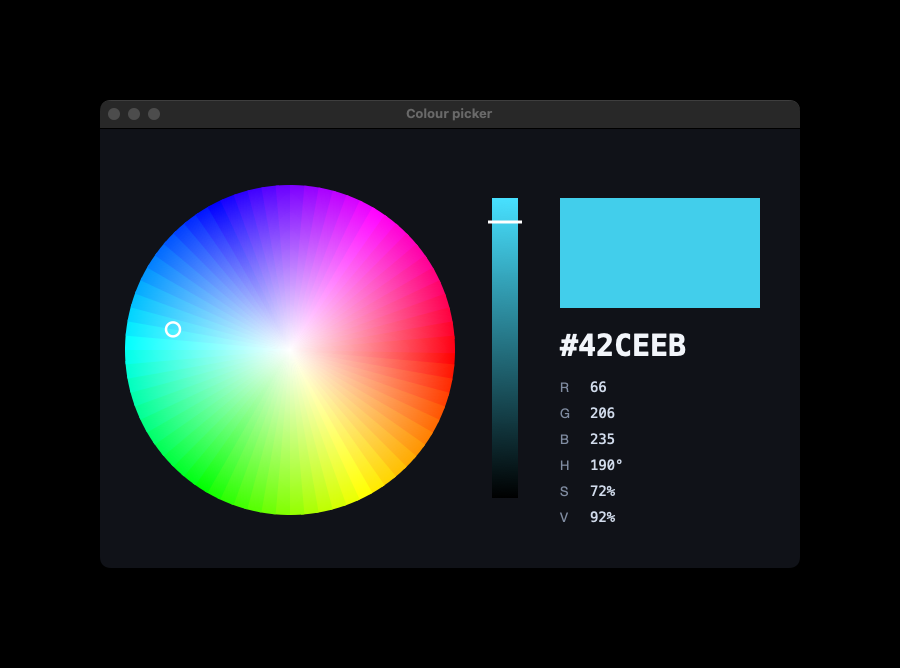
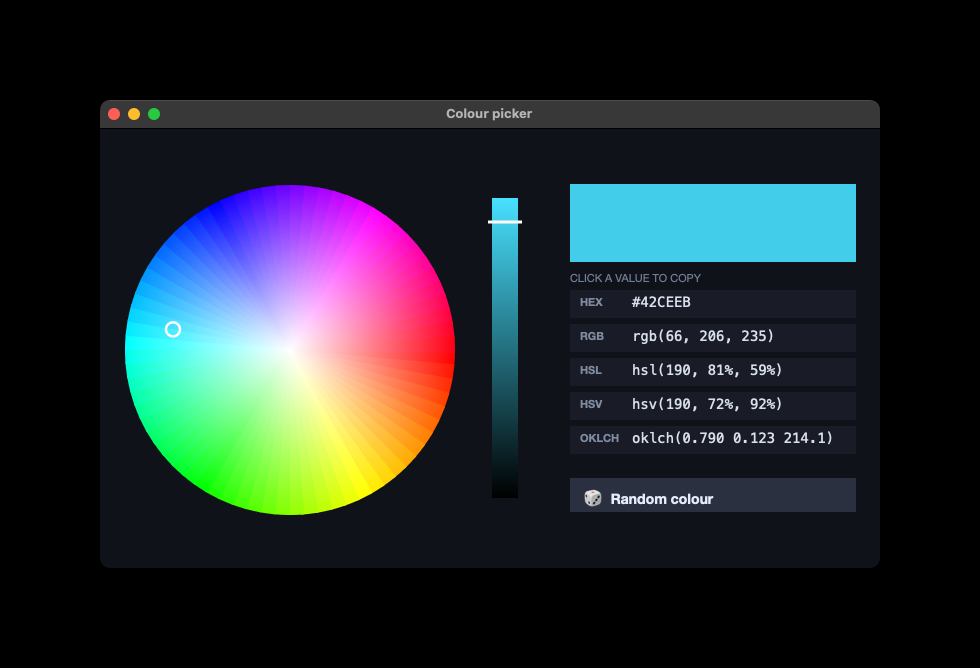
colorpicker: click-to-copy in 5 formats (hex/rgb/hsl/hsv/oklch) + random button
- five clickable format rows copy the colour to the clipboard with a 'Copied'
  flash; clipboard shells out to pbcopy/xclip/clip (libui has no clipboard API)
- HSL and OKLCH conversions (sRGB->linear->OKLab->OKLCH)
- a Random colour button; readout panel replaces the old R/G/B/H/S/V mini-rows

Changed region(s): [[0.0933, 0.1497, 0.9022, 0.8383], [0.4356, 0.1497, 0.56, 0.1796]]

diff --git a/examples/colorpicker.php b/examples/colorpicker.php
@@ -8,7 +8,8 @@ declare(strict_types=1);
  * The hue wheel is a fan of filled arc wedges (Path::arcTo) under a radial
  * white→transparent overlay for the saturation falloff; a vertical value bar is
  * a linear gradient. Click/drag the wheel to pick hue+saturation, the bar to
- * pick value. The swatch, hex and RGB readouts update live.
+ * pick value. Click any of the format rows (HEX / RGB / HSL / HSV / OKLCH) to
+ * copy that representation to the clipboard, or hit "Random colour".
  *
  *   php examples/colorpicker.php
  */
@@ -54,13 +55,74 @@ function hsv(float $h, float $s, float $v): array
     return [$r + $m, $g + $m, $b + $m];
 }
 
+/** sRGB (0-1) -> HSL [h 0-360, s 0-1, l 0-1]. */
+function rgbToHsl(float $r, float $g, float $b): array
+{
+    $max = max($r, $g, $b);
+    $min = min($r, $g, $b);
+    $l = ($max + $min) / 2;
+    $d = $max - $min;
+    if ($d == 0.0) {
+        return [0.0, 0.0, $l];
+    }
+    $s = $d / (1 - abs((2 * $l) - 1));
+    $h =
+        match ($max) {
+            $r => fmod(($g - $b) / $d, 6.0),
+            $g => (($b - $r) / $d) + 2,
+            default => (($r - $g) / $d) + 4,
+        } * 60;
+    return [fmod($h + 360.0, 360.0), $s, $l];
+}
+
+/** sRGB (0-1) -> OKLCH [L 0-1, C, H 0-360]. */
+function rgbToOklch(float $r, float $g, float $b): array
+{
+    $lin = static fn (float $c): float => $c <= 0.04045 ? $c / 12.92 : (($c + 0.055) / 1.055) ** 2.4;
+    $lr = $lin($r);
+    $lg = $lin($g);
+    $lb = $lin($b);
+
+    $l = (0.4122214708 * $lr) + (0.5363325363 * $lg) + (0.0514459929 * $lb);
+    $m = (0.2119034982 * $lr) + (0.6806995451 * $lg) + (0.1073969566 * $lb);
+    $s = (0.0883024619 * $lr) + (0.2817188376 * $lg) + (0.6299787005 * $lb);
+    $l3 = $l ** (1 / 3);
+    $m3 = $m ** (1 / 3);
+    $s3 = $s ** (1 / 3);
+
+    $L = (0.2104542553 * $l3) + (0.7936177850 * $m3) - (0.0040720468 * $s3);
+    $a = (1.9779984951 * $l3) - (2.4285922050 * $m3) + (0.4505937099 * $s3);
+    $bb = (0.0259040371 * $l3) + (0.7827717662 * $m3) - (0.8086757660 * $s3);
+
+    $C = sqrt(($a * $a) + ($bb * $bb));
+    $H = fmod(rad2deg(atan2($bb, $a)) + 360.0, 360.0);
+    return [$L, $C, $H];
+}
+
+/** Put $text on the system clipboard (no libui API; shell out per platform). */
+function copyToClipboard(string $text): bool
+{
+    $cmd = match (\PHP_OS_FAMILY) {
+        'Darwin' => 'pbcopy',
+        'Windows' => 'clip',
+        default => 'xclip -selection clipboard 2>/dev/null || xsel -ib 2>/dev/null',
+    };
+    $handle = @popen($cmd, 'w');
+    if ($handle === false) {
+        return false;
+    }
+    fwrite($handle, $text);
+    return pclose($handle) === 0;
+}
+
 $picker = new class extends AreaDelegate {
     public ?Area $area = null;
     public float $hue = 190.0;
     public float $sat = 0.72;
     public float $val = 0.92;
+    public string $copied = ''; // label of the format last copied (flash)
 
-    // wheel geometry
+    // wheel
     private float $cx = 190.0;
     private float $cy = 222.0;
     private float $radius = 165.0;
@@ -69,14 +131,40 @@ $picker = new class extends AreaDelegate {
     private float $barY = 70.0;
     private float $barW = 26.0;
     private float $barH = 300.0;
+    // readout panel
+    private float $px = 470.0;
+    private float $panelW = 286.0;
+    private float $rowY0 = 162.0;
+    private float $rowH = 34.0;
+    private float $btnY = 350.0;
+    private float $btnH = 34.0;
+
+    /** @return list<array{string,string}> ordered [label, value] for the current colour */
+    public function formats(): array
+    {
+        [$r, $g, $b] = hsv($this->hue, $this->sat, $this->val);
+        $ri = (int) round($r * 255);
+        $gi = (int) round($g * 255);
+        $bi = (int) round($b * 255);
+        [$hl, $sl, $ll] = rgbToHsl($r, $g, $b);
+        [$okl, $okc, $okh] = rgbToOklch($r, $g, $b);
+
+        return [
+            ['HEX', sprintf('#%02X%02X%02X', $ri, $gi, $bi)],
+            ['RGB', "rgb({$ri}, {$gi}, {$bi})"],
+            ['HSL', sprintf('hsl(%d, %d%%, %d%%)', round($hl), round($sl * 100), round($ll * 100))],
+            ['HSV', sprintf('hsv(%d, %d%%, %d%%)', round($this->hue), round($this->sat * 100), round($this->val * 100))],
+            ['OKLCH', sprintf('oklch(%.3f %.3f %.1f)', $okl, $okc, $okh)],
+        ];
+    }
 
     public function draw(DrawContext $ctx, AreaDrawParams $p): void
     {
         $w = $p->areaWidth;
         $h = $p->areaHeight;
-        $ctx->fillPath(Brush::rgb(0x10_12_18), fn (Path $bg) => $bg->addRectangle(0, 0, $w, $h));
+        $ctx->fillPath(Brush::rgb(0x10_12_1A), fn (Path $bg) => $bg->addRectangle(0, 0, $w, $h));
 
-        // --- hue wheel: a fan of solid-hue wedges ---
+        // hue wheel: a fan of solid-hue wedges
         $segments = 72;
         $step = (2 * \M_PI) / $segments;
         for ($i = 0; $i < $segments; $i++) {
@@ -88,19 +176,18 @@ $picker = new class extends AreaDelegate {
                 $path->closeFigure();
             });
         }
-        // saturation: white at the centre fading to transparent at the rim
+        // saturation: white centre -> transparent rim
         $ctx->fillPath(
             Brush::radialGradient($this->cx, $this->cy, $this->radius, [[0.0, 1, 1, 1, 1.0], [1.0, 1, 1, 1, 0.0]]),
             fn (Path $disc) => $disc->newFigureWithArc($this->cx, $this->cy, $this->radius, 0, 2 * \M_PI),
         );
-        // selection marker on the wheel
+        // selection marker
         $ang = ($this->hue / 360.0) * 2 * \M_PI;
         $mx = $this->cx + (cos($ang) * $this->sat * $this->radius);
         $my = $this->cy + (sin($ang) * $this->sat * $this->radius);
-        $ring = StrokeParams::solid(2.5);
-        $ctx->strokePath(Brush::rgb(0xFFFFFF), $ring, fn (Path $mk) => $mk->newFigureWithArc($mx, $my, 7, 0, 2 * \M_PI));
+        $ctx->strokePath(Brush::rgb(0xFFFFFF), StrokeParams::solid(2.5), fn (Path $mk) => $mk->newFigureWithArc($mx, $my, 7, 0, 2 * \M_PI));
 
-        // --- value bar: full colour (top) to black (bottom) ---
+        // value bar
         [$fr, $fg, $fb] = hsv($this->hue, $this->sat, 1.0);
         $ctx->fillPath(
             Brush::linearGradient($this->barX, $this->barY, $this->barX, $this->barY + $this->barH, [
@@ -114,48 +201,79 @@ $picker = new class extends AreaDelegate {
 
         // --- readout panel ---
         [$r, $g, $b] = hsv($this->hue, $this->sat, $this->val);
-        $px = 460.0;
-        $ctx->fillPath(Brush::solid($r, $g, $b), fn (Path $sw) => $sw->addRectangle($px, 70, 200, 110));
+        $ctx->fillPath(Brush::solid($r, $g, $b), fn (Path $sw) => $sw->addRectangle($this->px, 56, $this->panelW, 78));
+        $ctx->drawString('CLICK A VALUE TO COPY', new FontDescriptor(FONT, 11.0), [0.45, 0.5, 0.58], $this->px, 144);
 
-        $hex = sprintf('#%02X%02X%02X', (int) round($r * 255), (int) round($g * 255), (int) round($b * 255));
-        $ctx->drawString($hex, new FontDescriptor(MONO, 30.0, TextWeight::Bold), [0.95, 0.96, 0.98], $px, 200);
-
-        $label = new FontDescriptor(FONT, 13.0);
-        $value = new FontDescriptor(MONO, 14.0);
-        $rows = [
-            ['R', (string) (int) round($r * 255)],
-            ['G', (string) (int) round($g * 255)],
-            ['B', (string) (int) round($b * 255)],
-            ['H', round($this->hue) . '°'],
-            ['S', round($this->sat * 100) . '%'],
-            ['V', round($this->val * 100) . '%'],
-        ];
-        $ry = 252.0;
-        foreach ($rows as [$k, $v]) {
-            $ctx->drawString($k, $label, [0.5, 0.55, 0.63], $px, $ry);
-            $ctx->drawString($v, $value, [0.82, 0.86, 0.92], $px + 30, $ry - 1);
-            $ry += 26;
+        $labelFont = new FontDescriptor(FONT, 11.0, TextWeight::Bold);
+        $valueFont = new FontDescriptor(MONO, 14.0);
+        foreach ($this->formats() as $i => [$label, $value]) {
+            $y = $this->rowY0 + ($i * $this->rowH);
+            $isCopied = $this->copied === $label;
+            $ctx->fillPath(
+                Brush::rgb($isCopied ? 0x13_3A_2E : 0x19_1C_26),
+                fn (Path $row) => $row->addRectangle($this->px, $y, $this->panelW, $this->rowH - 6),
+            );
+            $ctx->drawString($label, $labelFont, $isCopied ? [0.45, 0.85, 0.55] : [0.5, 0.55, 0.63], $this->px + 10, $y + 5);
+            $ctx->drawString(
+                $isCopied ? '✓ Copied' : $value,
+                $valueFont,
+                $isCopied ? [0.55, 0.9, 0.62] : [0.85, 0.88, 0.93],
+                $this->px + 62,
+                $y + 4,
+            );
         }
+
+        // random button
+        $ctx->fillPath(Brush::rgb(0x2A_30_40), fn (Path $btn) => $btn->addRectangle($this->px, $this->btnY, $this->panelW, $this->btnH));
+        $ctx->drawString('🎲  Random colour', new FontDescriptor(FONT, 14.0, TextWeight::Bold), [0.9, 0.93, 0.98], $this->px + 14, $this->btnY + 8);
     }
 
     public function mouse(AreaMouseEvent $e): void
     {
-        $active = $e->down !== 0 || $e->held !== 0;
-        if (! $active) {
-            return;
-        }
+        $down = $e->down !== 0;
+        $dragging = $down || $e->held !== 0;
 
+        // wheel (hue + saturation) — responds to drag
         $dx = $e->x - $this->cx;
         $dy = $e->y - $this->cy;
         $dist = sqrt(($dx * $dx) + ($dy * $dy));
-        if ($dist <= ($this->radius + 6)) {
+        if ($dragging && $dist <= ($this->radius + 6)) {
             $this->hue = fmod(rad2deg(atan2($dy, $dx)) + 360.0, 360.0);
             $this->sat = min(1.0, $dist / $this->radius);
+            $this->copied = '';
             $this->area?->queueRedrawAll();
             return;
         }
-        if ($e->x >= ($this->barX - 6) && $e->x <= ($this->barX + $this->barW + 6)) {
+        // value bar — responds to drag
+        if ($dragging && $e->x >= ($this->barX - 6) && $e->x <= ($this->barX + $this->barW + 6)) {
             $this->val = max(0.0, min(1.0, 1 - (($e->y - $this->barY) / $this->barH)));
+            $this->copied = '';
+            $this->area?->queueRedrawAll();
+            return;
+        }
+
+        // panel interactions only fire on a click, not a drag
+        if (! $down || $e->x < $this->px || $e->x > ($this->px + $this->panelW)) {
+            return;
+        }
+
+        // format rows -> copy
+        $formats = $this->formats();
+        foreach ($formats as $i => [$label, $value]) {
+            $y = $this->rowY0 + ($i * $this->rowH);
+            if ($e->y >= $y && $e->y <= ($y + $this->rowH - 6)) {
+                copyToClipboard($value);
+                $this->copied = $label;
+                $this->area?->queueRedrawAll();
+                return;
+            }
+        }
+        // random button
+        if ($e->y >= $this->btnY && $e->y <= ($this->btnY + $this->btnH)) {
+            $this->hue = mt_rand(0, 3599) / 10;
+            $this->sat = mt_rand(45, 100) / 100;
+            $this->val = mt_rand(55, 100) / 100;
+            $this->copied = '';
             $this->area?->queueRedrawAll();
         }
     }
@@ -166,6 +284,6 @@ Ffi::init();
 $area = new Area($picker);
 $picker->area = $area;
 
-new Window('Colour picker', 700, 440)
+new Window('Colour picker', 780, 440)
     ->setChild(new Box()->appendStretchy($area))
     ->run();